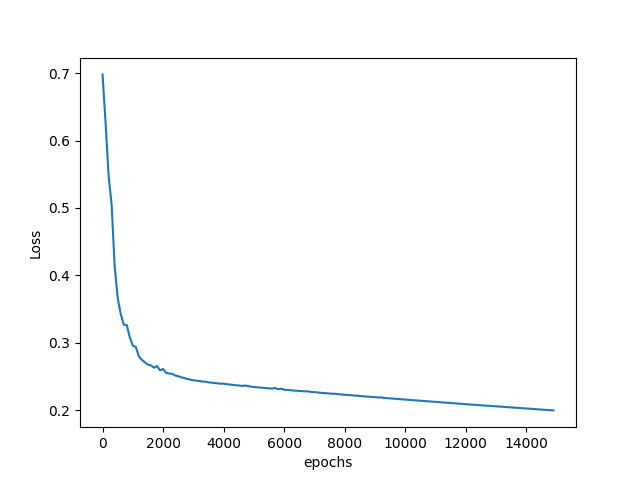
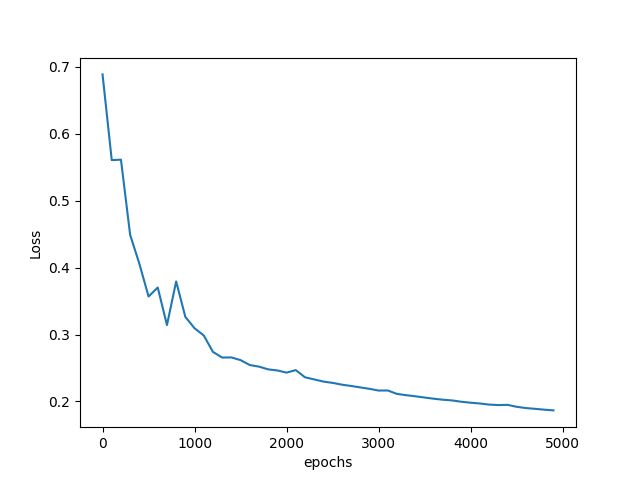
epochs

diff --git a/main.py b/main.py
@@ -49,7 +49,7 @@ class NeuralNetwork:
 
     def bias_init(self):
 
-        self.b = 1.0
+        self.b = 0.1
         self.b1 = np.random.randn(10, 1) * np.sqrt(2.0 / self.input.shape[0])
         self.b2 = np.random.randn(1, 1) * np.sqrt(2.0 / self.input.shape[0])
 
@@ -78,10 +78,10 @@ class NeuralNetwork:
         dw1 = np.dot(cost_derivative(self.m, self.y, self.output) * sigmoid_derivative(self.z2) * np.dot(
                                          self.w2.T, relu_derivative(self.z1)), self.input.T).T
 
-        db2 = cost_derivative(self.m, self.y, self.output) * sigmoid_derivative(self.z2)
+        db2 = np.sum(cost_derivative(self.m, self.y, self.output) * sigmoid_derivative(self.z2))
 
-        db1 = cost_derivative(self.m, self.y, self.output) * sigmoid_derivative(self.z2) * np.dot(
-                                         self.w2.T, relu_derivative(self.z1))
+        db1 = np.sum(cost_derivative(self.m, self.y, self.output) * sigmoid_derivative(self.z2) * np.dot(
+                                         self.w2.T, relu_derivative(self.z1)))
 
         self.w2 = self.w2 - self.learning_rate * dw2
         self.w1 = self.w1 - self.learning_rate * dw1
@@ -130,7 +130,7 @@ class NeuralNetwork:
 
     def predict(self, x, threshold):
 
-        probablity = sigmoid(np.dot(self.w2.T, relu(np.dot(self.w1.T, x))))
+        probablity = sigmoid(np.dot(self.w2.T, relu(np.dot(self.w1.T, x) + self.b * self.b1)) + self.b * self.b2)
 
         probablity[probablity <= threshold] = 0
         probablity[probablity > threshold] = 1
@@ -200,7 +200,7 @@ if __name__ == '__main__':
     X_train = X_train_flatten / 255
     X_test = X_test_flatten / 255
 
-    model = NeuralNetwork(X_train, y_train, X_test, y_test, epochs=15000, learning_rate=0.01)
+    model = NeuralNetwork(X_train, y_train, X_test, y_test, epochs=5000, learning_rate=0.01)
     model.fit()
 
     y_predicted = model.predict(X_test, threshold=0.3)
